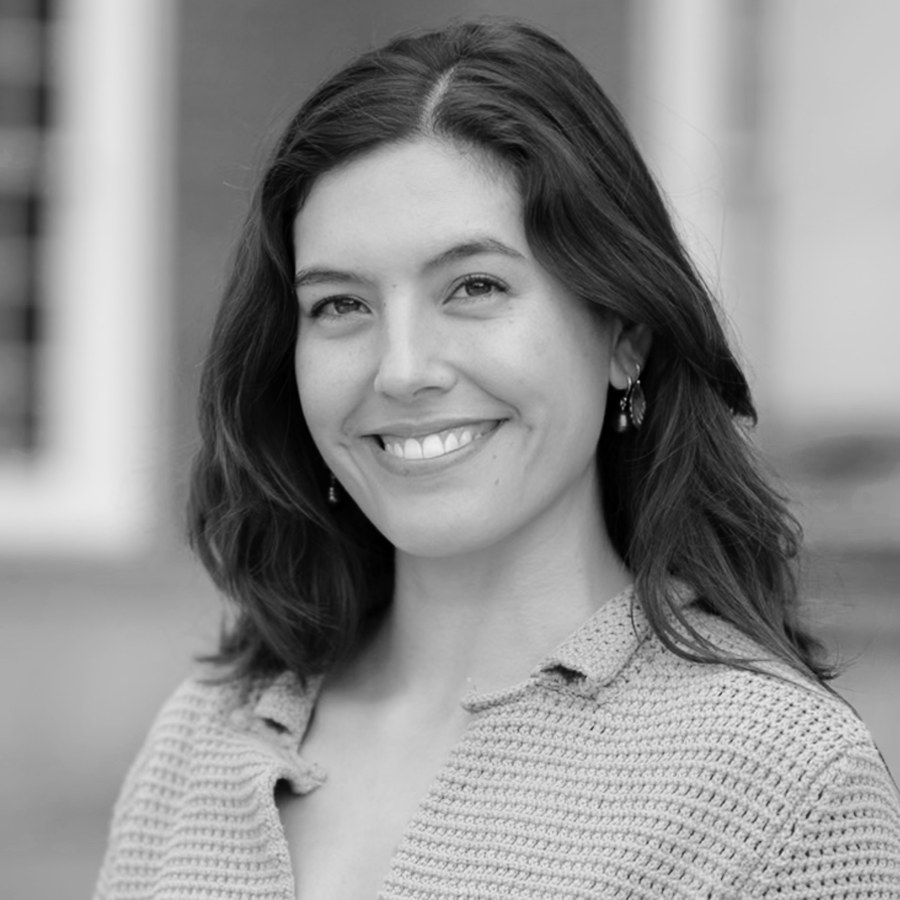
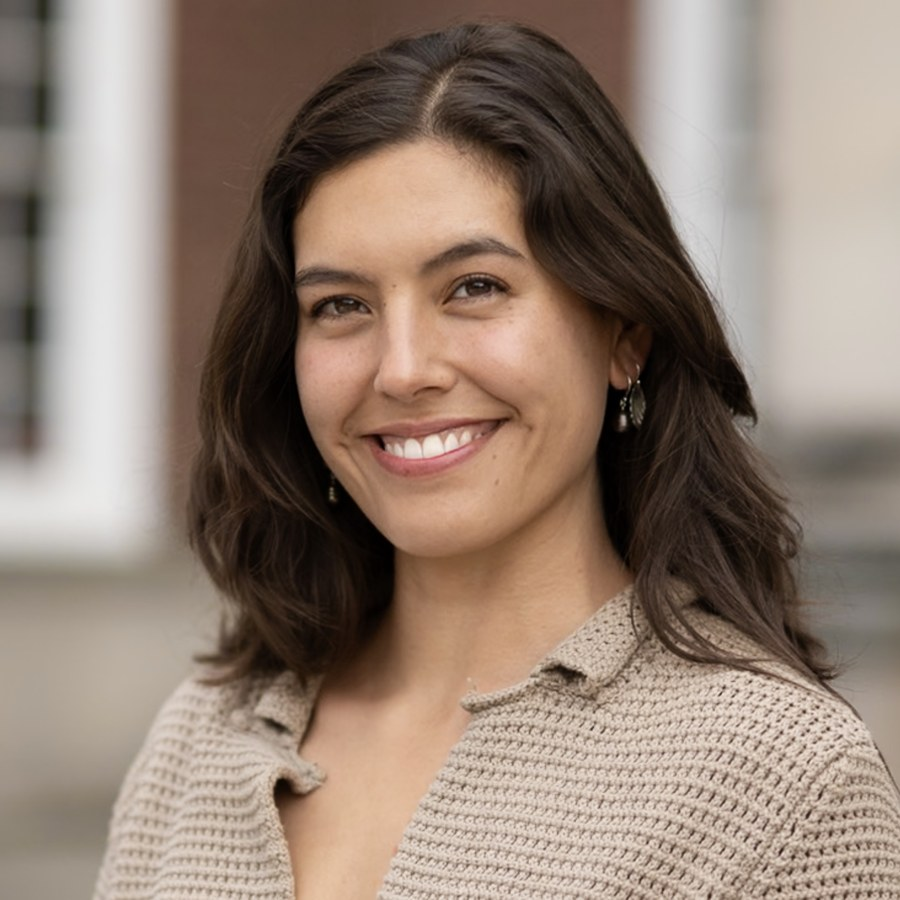
Color headshot sized to match name width
Claude-Session: https://claude.ai/code/session_01TPHPnSAvHQ5ZL89PQahjuf

diff --git a/index.html b/index.html
@@ -34,9 +34,10 @@ a:focus-visible{outline:2px solid var(--accent);outline-offset:2px;border-radius
 
 .wrap{max-width:1080px;margin:0 auto;display:grid;grid-template-columns:280px minmax(0,1fr);gap:64px;padding-block:56px 80px}
 aside{position:sticky;top:40px;align-self:start;display:flex;flex-direction:column;gap:20px}
-.photo{width:100%;max-width:240px;aspect-ratio:1/1;object-fit:cover;object-position:50% 50%;border-radius:4px;display:block}
+.id{display:grid;gap:18px;width:max-content;max-width:100%}
+.photo{width:0;min-width:100%;aspect-ratio:1/1;object-fit:cover;object-position:50% 50%;border-radius:4px;display:block}
 h1{font-family:var(--serif);font-weight:500;font-size:2.4rem;line-height:1.05;margin:0;text-wrap:balance;letter-spacing:-.01em}
-.role{color:var(--muted);margin:6px 0 0;font-size:.95rem;line-height:1.45}
+.role{color:var(--muted);margin:-14px 0 0;font-size:.95rem;line-height:1.45}
 .contact{display:flex;flex-direction:column;gap:4px;font-size:.95rem}
 .btn{display:inline-block;align-self:flex-start;background:var(--accent);color:var(--bg);text-decoration:none;
   padding:9px 16px;border-radius:3px;font-weight:600;font-size:.9rem;letter-spacing:.02em}
@@ -96,7 +97,6 @@ footer{color:var(--muted);font-size:.85rem;border-top:1px solid var(--rule);padd
 @media (max-width:820px){
   .wrap{grid-template-columns:minmax(0,1fr);gap:40px;padding-block:32px 56px}
   aside{position:static}
-  .photo{max-width:180px}
   nav ul{flex-direction:row;flex-wrap:wrap;gap:4px 16px}
   .themes,.two{grid-template-columns:minmax(0,1fr)}
 }
@@ -108,11 +108,11 @@ footer{color:var(--muted);font-size:.85rem;border-top:1px solid var(--rule);padd
 
 <div class="wrap">
   <aside>
-    <img class="photo" src="headshot.jpg" alt="Portrait of Anna De La Paz">
-    <div>
+    <div class="id">
+      <img class="photo" src="headshot.jpg" alt="Portrait of Anna De La Paz">
       <h1>Anna De La Paz</h1>
-      <p class="role">PhD Candidate in Sociology<br>Syracuse University</p>
     </div>
+    <p class="role">PhD Candidate in Sociology<br>Syracuse University</p>
     <div class="contact">
       <a href="mailto:acdelapa@syr.edu">acdelapa@syr.edu</a>
     </div>
